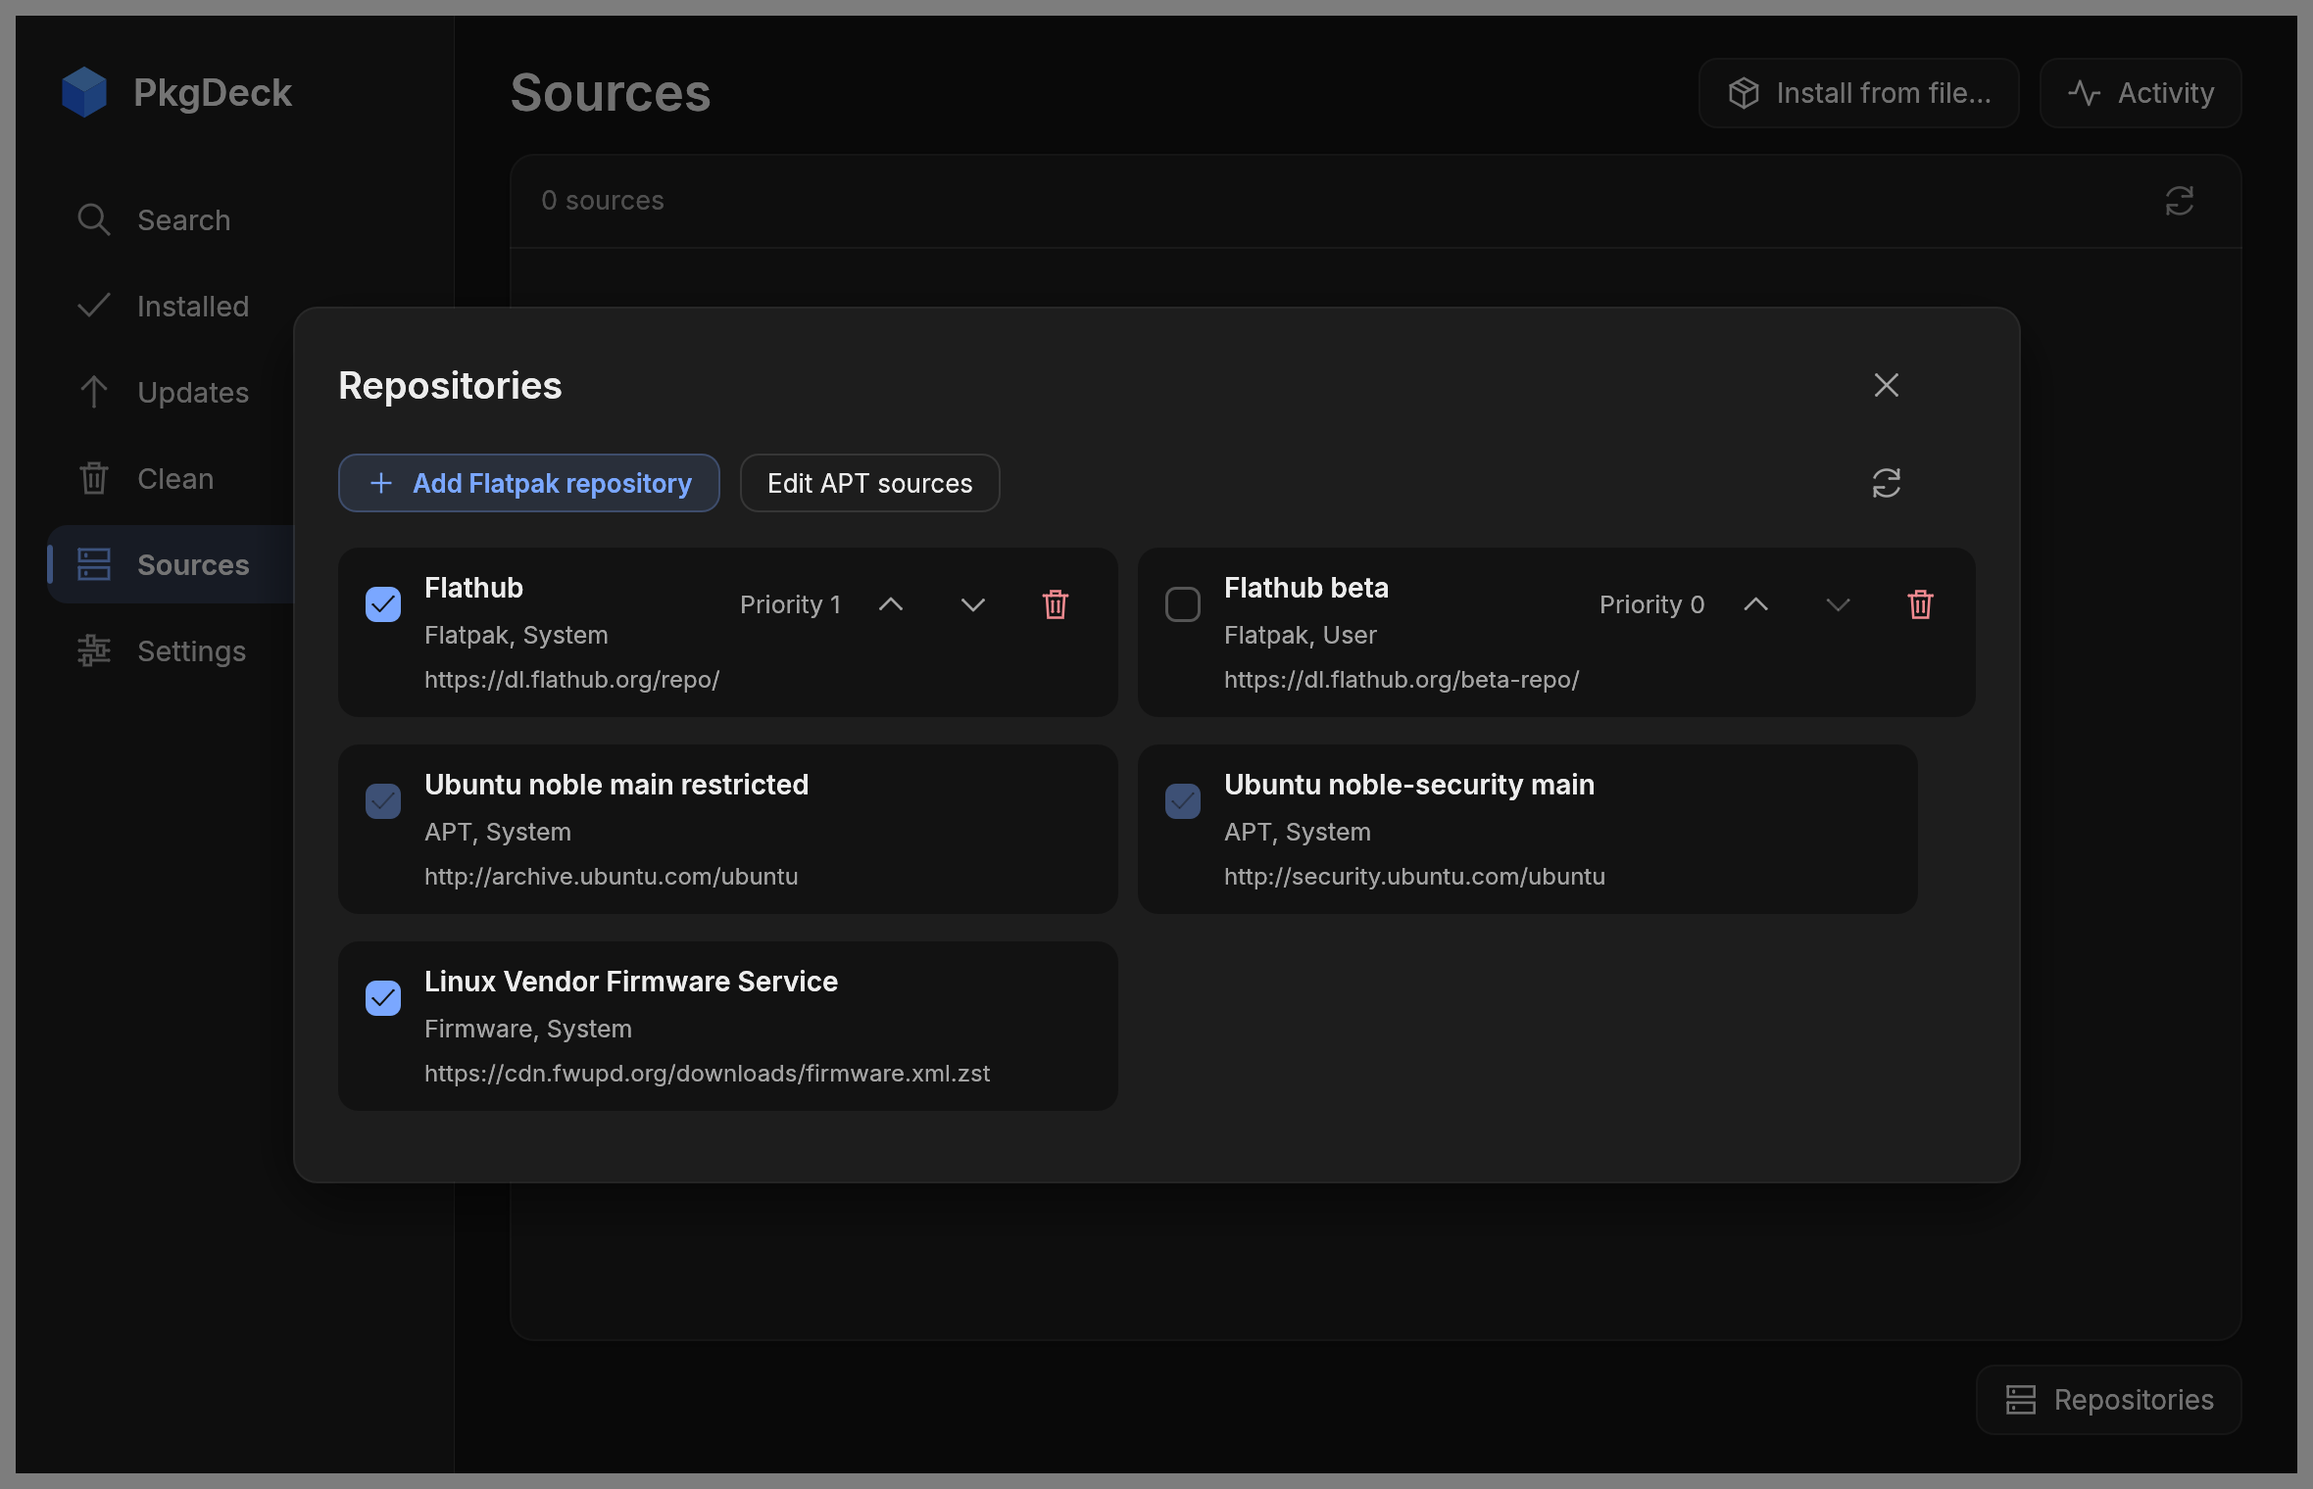
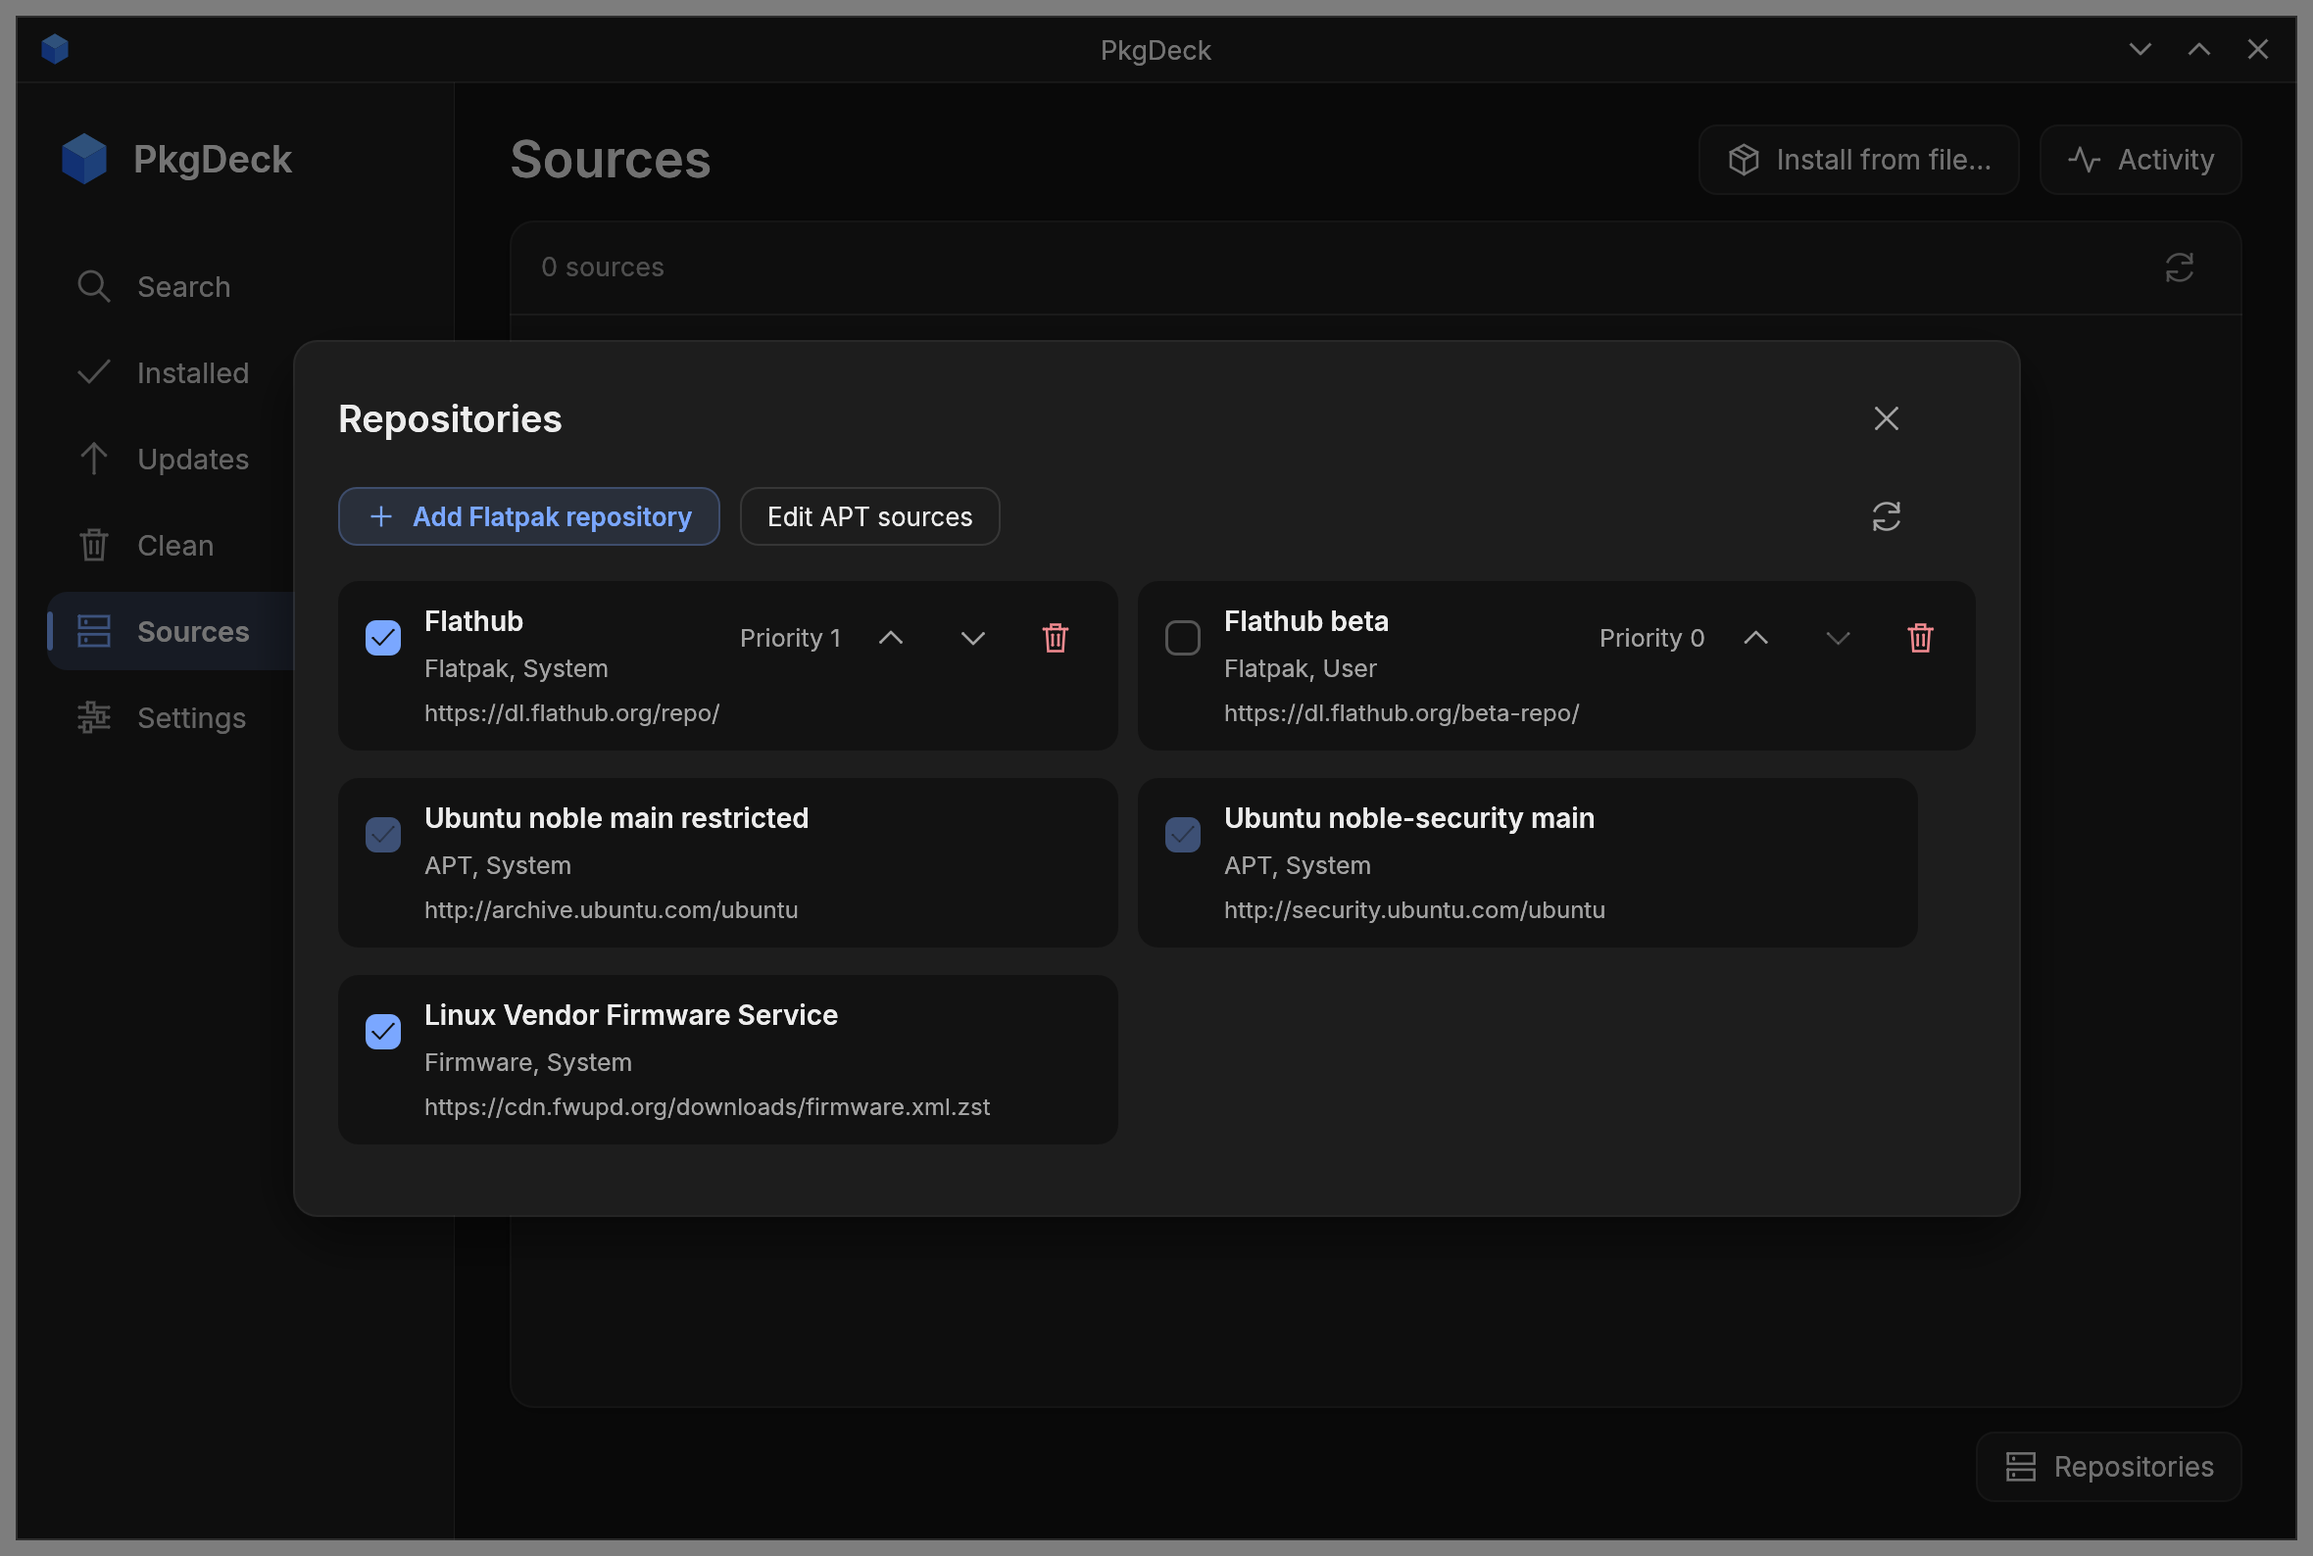
Publish Homebrew formula for v0.8.0 and skip full CI for docs and formula PRs (#214)
* Publish Homebrew formula for v0.8.0

* Skip tests and packages for pull requests that only change docs

CI / Required still runs, so the ruleset is unchanged: it passes once the
changed files check finds only docs/ or Markdown, and otherwise needs every
job like before. Pushes to main and release tags run as they did.

* Run only the Homebrew tests for release formula pull requests

A release/homebrew-* PR that changes only Formula/ and Casks/ skips the
test and package jobs. Test / Homebrew still checks the recipes against
the published release on Linux and macOS, and CI / Required needs it.

* Draw a title bar and outline around the screenshots

---------

diff --git a/crates/pkgdeck/examples/screenshots.rs b/crates/pkgdeck/examples/screenshots.rs
@@ -160,12 +160,58 @@ fn update_rows() -> Vec<model::Row> {
     ]
 }
 
+/// The height of the window's title bar, in points.
+const TITLE_BAR: f32 = 34.0;
+
+/// A title bar and outline like a desktop's around the window, so the
+/// screenshots look like a window rather than a bare page.
+fn title_bar(ui: &egui::Ui, bar: egui::Rect, window: egui::Rect) {
+    use egui::{pos2, vec2, Align2, CornerRadius, Rect, Stroke, StrokeKind};
+    let palette = pkgdeck::theme::Palette::current(ui.ctx());
+    let painter = ui.painter();
+    painter.rect_filled(bar, CornerRadius::ZERO, palette.surface);
+    painter.line_segment(
+        [bar.left_bottom(), bar.right_bottom()],
+        Stroke::new(1.0, palette.line),
+    );
+    let logo = Rect::from_center_size(pos2(bar.left() + 20.0, bar.center().y), vec2(18.0, 18.0));
+    egui::Image::new(egui::include_image!("../assets/logo.svg"))
+        .fit_to_exact_size(logo.size())
+        .paint_at(ui, logo);
+    painter.text(
+        bar.center(),
+        Align2::CENTER_CENTER,
+        "PkgDeck",
+        pkgdeck::theme::font(13.5),
+        palette.ink,
+    );
+    // Minimize, maximize and close, right to left.
+    let stroke = Stroke::new(1.4, palette.ink);
+    let center = |slot: f32| pos2(bar.right() - 20.0 - slot * 30.0, bar.center().y);
+    let close = center(0.0);
+    for (a, b) in [(-4.5, -4.5), (-4.5, 4.5)] {
+        painter.line_segment([close + vec2(a, b), close - vec2(a, b)], stroke);
+    }
+    let up = center(1.0);
+    painter.line_segment([up + vec2(-5.0, 2.5), up + vec2(0.0, -2.5)], stroke);
+    painter.line_segment([up + vec2(0.0, -2.5), up + vec2(5.0, 2.5)], stroke);
+    let down = center(2.0);
+    painter.line_segment([down + vec2(-5.0, -2.5), down + vec2(0.0, 2.5)], stroke);
+    painter.line_segment([down + vec2(0.0, 2.5), down + vec2(5.0, -2.5)], stroke);
+    painter.rect_stroke(
+        window,
+        CornerRadius::ZERO,
+        Stroke::new(1.0, palette.strong_line),
+        StrokeKind::Inside,
+    );
+}
+
 fn render(name: &str, size: [f32; 2], prepare: impl FnOnce(&mut App)) {
     let mut app = app();
     prepare(&mut app);
     app.invalidate();
     let mut harness = Harness::builder()
-        .with_size(egui::vec2(size[0], size[1]))
+        .with_size(egui::vec2(size[0], size[1] + TITLE_BAR))
         .with_pixels_per_point(2.0)
         .wgpu()
         .build_ui_state(
@@ -175,7 +221,14 @@ fn render(name: &str, size: [f32; 2], prepare: impl FnOnce(&mut App)) {
                     *ready = true;
                     return;
                 }
-                pkgdeck::ui::show(app, ui)
+                let full = ui.max_rect();
+                let bar = egui::Rect::from_min_size(full.min, egui::vec2(full.width(), TITLE_BAR));
+                let body =
+                    egui::Rect::from_min_max(egui::pos2(full.left(), bar.bottom()), full.max);
+                ui.scope_builder(egui::UiBuilder::new().max_rect(body), |ui| {
+                    pkgdeck::ui::show(app, ui)
+                });
+                title_bar(ui, bar, full);
             },
             (false, app),
         );

diff --git a/Formula/pkd.rb b/Formula/pkd.rb
@@ -1,7 +1,7 @@
 class Pkd < Formula
   desc "Command-line tool to manage packages across native package managers"
   homepage "https://github.com/astrovm/PkgDeck"
-  version "0.7.2"
+  version "0.8.0"
   license "MIT"
 
   # macOS gets pkd with the app: brew install astrovm/pkgdeck/pkgdeck
@@ -9,10 +9,10 @@ class Pkd < Formula
 
   if Hardware::CPU.arm?
     url "https://github.com/astrovm/PkgDeck/releases/download/v#{version}/PkgDeck-v#{version}-linux-aarch64-cli.tar.gz"
[2 lines of base64/hex data omitted]
   else
     url "https://github.com/astrovm/PkgDeck/releases/download/v#{version}/PkgDeck-v#{version}-linux-x86_64-cli.tar.gz"
[2 lines of base64/hex data omitted]
   end
 
   def install

diff --git a/Casks/pkgdeck.rb b/Casks/pkgdeck.rb
@@ -1,9 +1,9 @@
 cask "pkgdeck" do
   arch arm: "aarch64", intel: "x86_64"
 
-  version "0.7.2"
[2 lines of base64/hex data omitted]
+  version "0.8.0"
[2 lines of base64/hex data omitted]
 
   url "https://github.com/astrovm/PkgDeck/releases/download/v#{version}/PkgDeck-v#{version}-macos-#{arch}.zip"
   name "PkgDeck"
